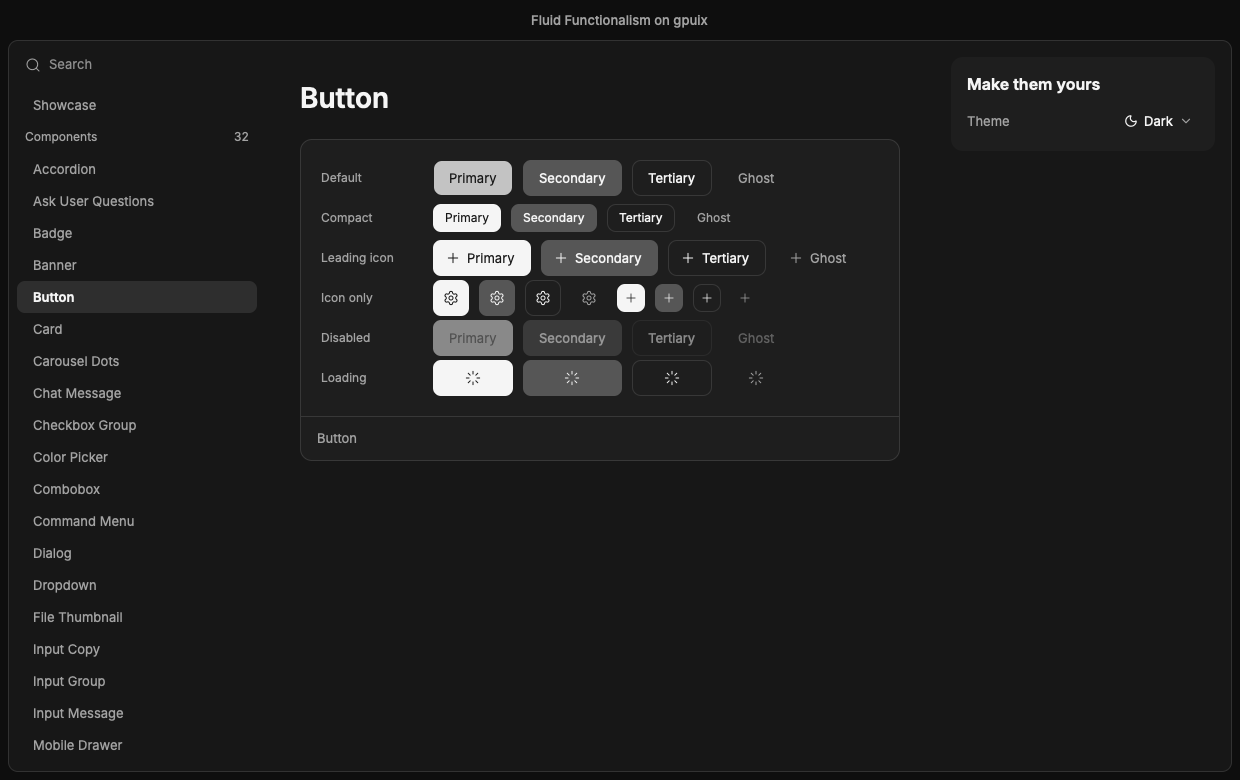
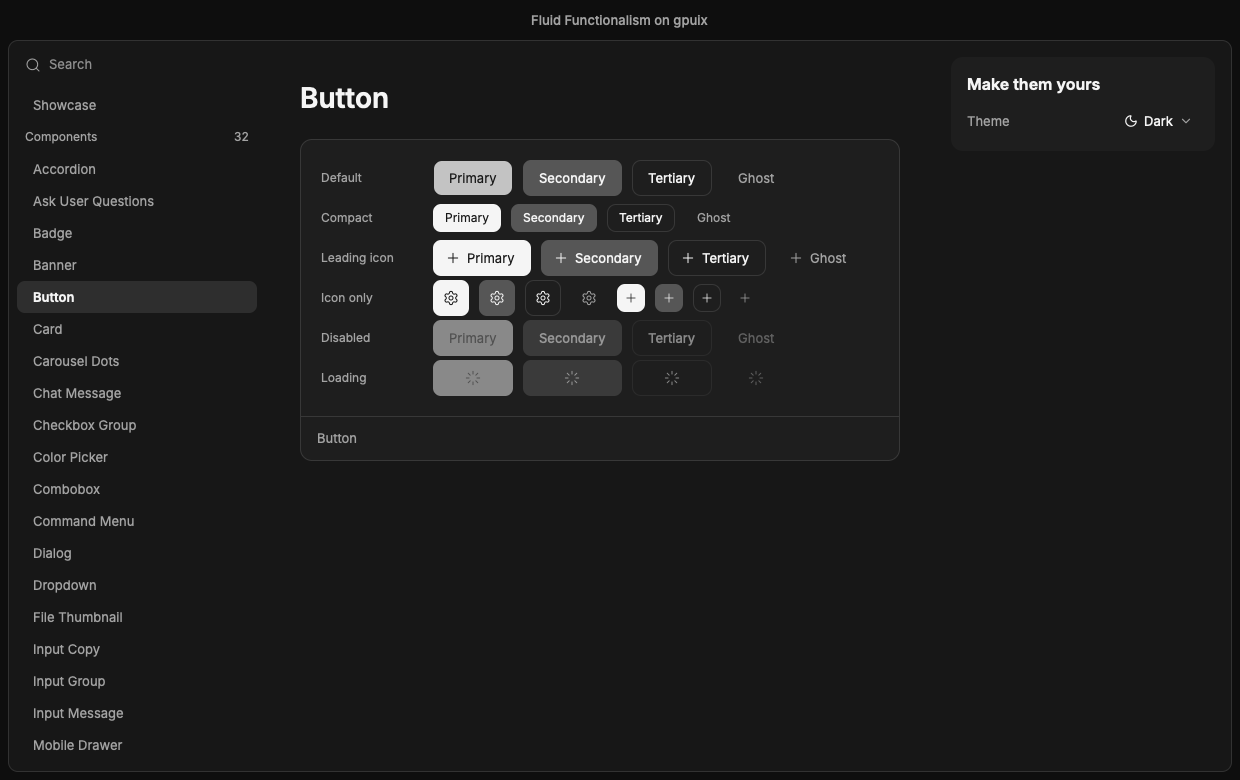
button: a loading button is inert like a disabled one (dimmed, no pointer events, not hoverable); record that a held Space does not show the pressed style

Changed region(s): [[0.3371, 0.4615, 0.521, 0.5231]]

diff --git a/src/components/button.tsx b/src/components/button.tsx
@@ -112,6 +112,8 @@ export function Button(props: {
 }) {
 	const variant = () => props.variant ?? "primary";
 	const size = () => sizes[props.size ?? "default"];
+	/** Base UI disables the button while it loads: FF passes `disabled || loading`, and its `disabled:` classes dim it and drop pointer events. */
+	const inert = () => props.disabled === true || props.loading === true;
 	const iconOnly = () => props.size === "icon" || props.size === "icon-compact";
 	const [hovered, setHovered] = createSignal(false);
 
@@ -185,10 +187,10 @@ export function Button(props: {
 	return (
 		<div
 			{...buttonProps({
-				disabled: props.disabled || props.loading,
+				disabled: inert(),
 				onClick: props.onClick,
 			})}
-			tabIndex={props.disabled || props.loading ? -1 : 0}
+			tabIndex={inert() ? -1 : 0}
 			testId={props.testId}
 			aria-label={props["aria-label"]}
 			aria-expanded={props["aria-expanded"]}
@@ -213,8 +215,8 @@ export function Button(props: {
 				userSelect: "none",
 				// gpuix dims every other focusable while one has keyboard focus; this design does not.
 				keyboardFocusDim: false,
-				opacity: props.disabled ? 0.5 : 1,
-				pointerEvents: props.disabled ? "none" : "auto",
+				opacity: inert() ? 0.5 : 1,
+				pointerEvents: inert() ? "none" : "auto",
 				...surfaces()[variant()].rest,
 				hover: surfaces()[variant()].hover,
 				active: surfaces()[variant()].active,

diff --git a/src/demos/button.tsx b/src/demos/button.tsx
@@ -75,4 +75,7 @@ export const scenarios: DemoModule["scenarios"] = async (shot) => {
 	await shot.down("Default-primary");
 	shot.capture("pressed");
 	await shot.up("Default-primary");
+	// A loading button is disabled: dimmed, and the pointer does nothing to it.
+	await shot.hover("Loading-secondary");
+	shot.capture("loading-hover");
 };

diff --git a/limitations/button.md b/limitations/button.md
@@ -1,0 +1,21 @@
+# button
+
+Original: `registry/base/button.tsx` (Base UI `Button`). Ported in `src/components/button.tsx`, demo in `src/demos/button.tsx`.
+
+Transforms, colour transitions and fonts are already known and not repeated here.
+
+## A held Space does not press the button
+
+- **Original:** a native `<button>` matches `:active` while Space is held, so the press-shrink (`group-active:`) plays for a keyboard activation too.
+- **gpuix lacks:** a keyboard `:active` state. `style.active` follows the pointer only. Checked on the test renderer: with the button focused, the frame while Space is down is pixel-identical to the frame while any other key is down (only the focus ring differs), and different from a pointer press. Missing feature.
+- **Workaround:** none; Space still activates on key-up (`buttonProps`), without the shrink.
+- **Fidelity:** approximated: the activation is exact, the pressed look is missing for the keyboard.
+- **Components it hits:** every `buttonProps` button (accordion and thinking-steps triggers have no pressed look anyway).
+
+## `simulateKeystrokes("space")` delivers no key-up to elements
+
+- **Original:** n/a (a test-harness effect).
+- **gpuix lacks:** a key-up from `simulateKeystrokes` reaching an element's `onKeyUp`: Space never activates a `buttonProps` button in a scenario, while `nativeSimulateKeyDown` followed by `nativeSimulateKeyUp` does.
+- **Workaround:** scenarios press Enter instead; `ShotContext` has no key-up helper.
+- **Fidelity:** exact in the real window; a harness gap only.
+- **Components it hits:** any scenario that wants Space on a Base UI-style button.
